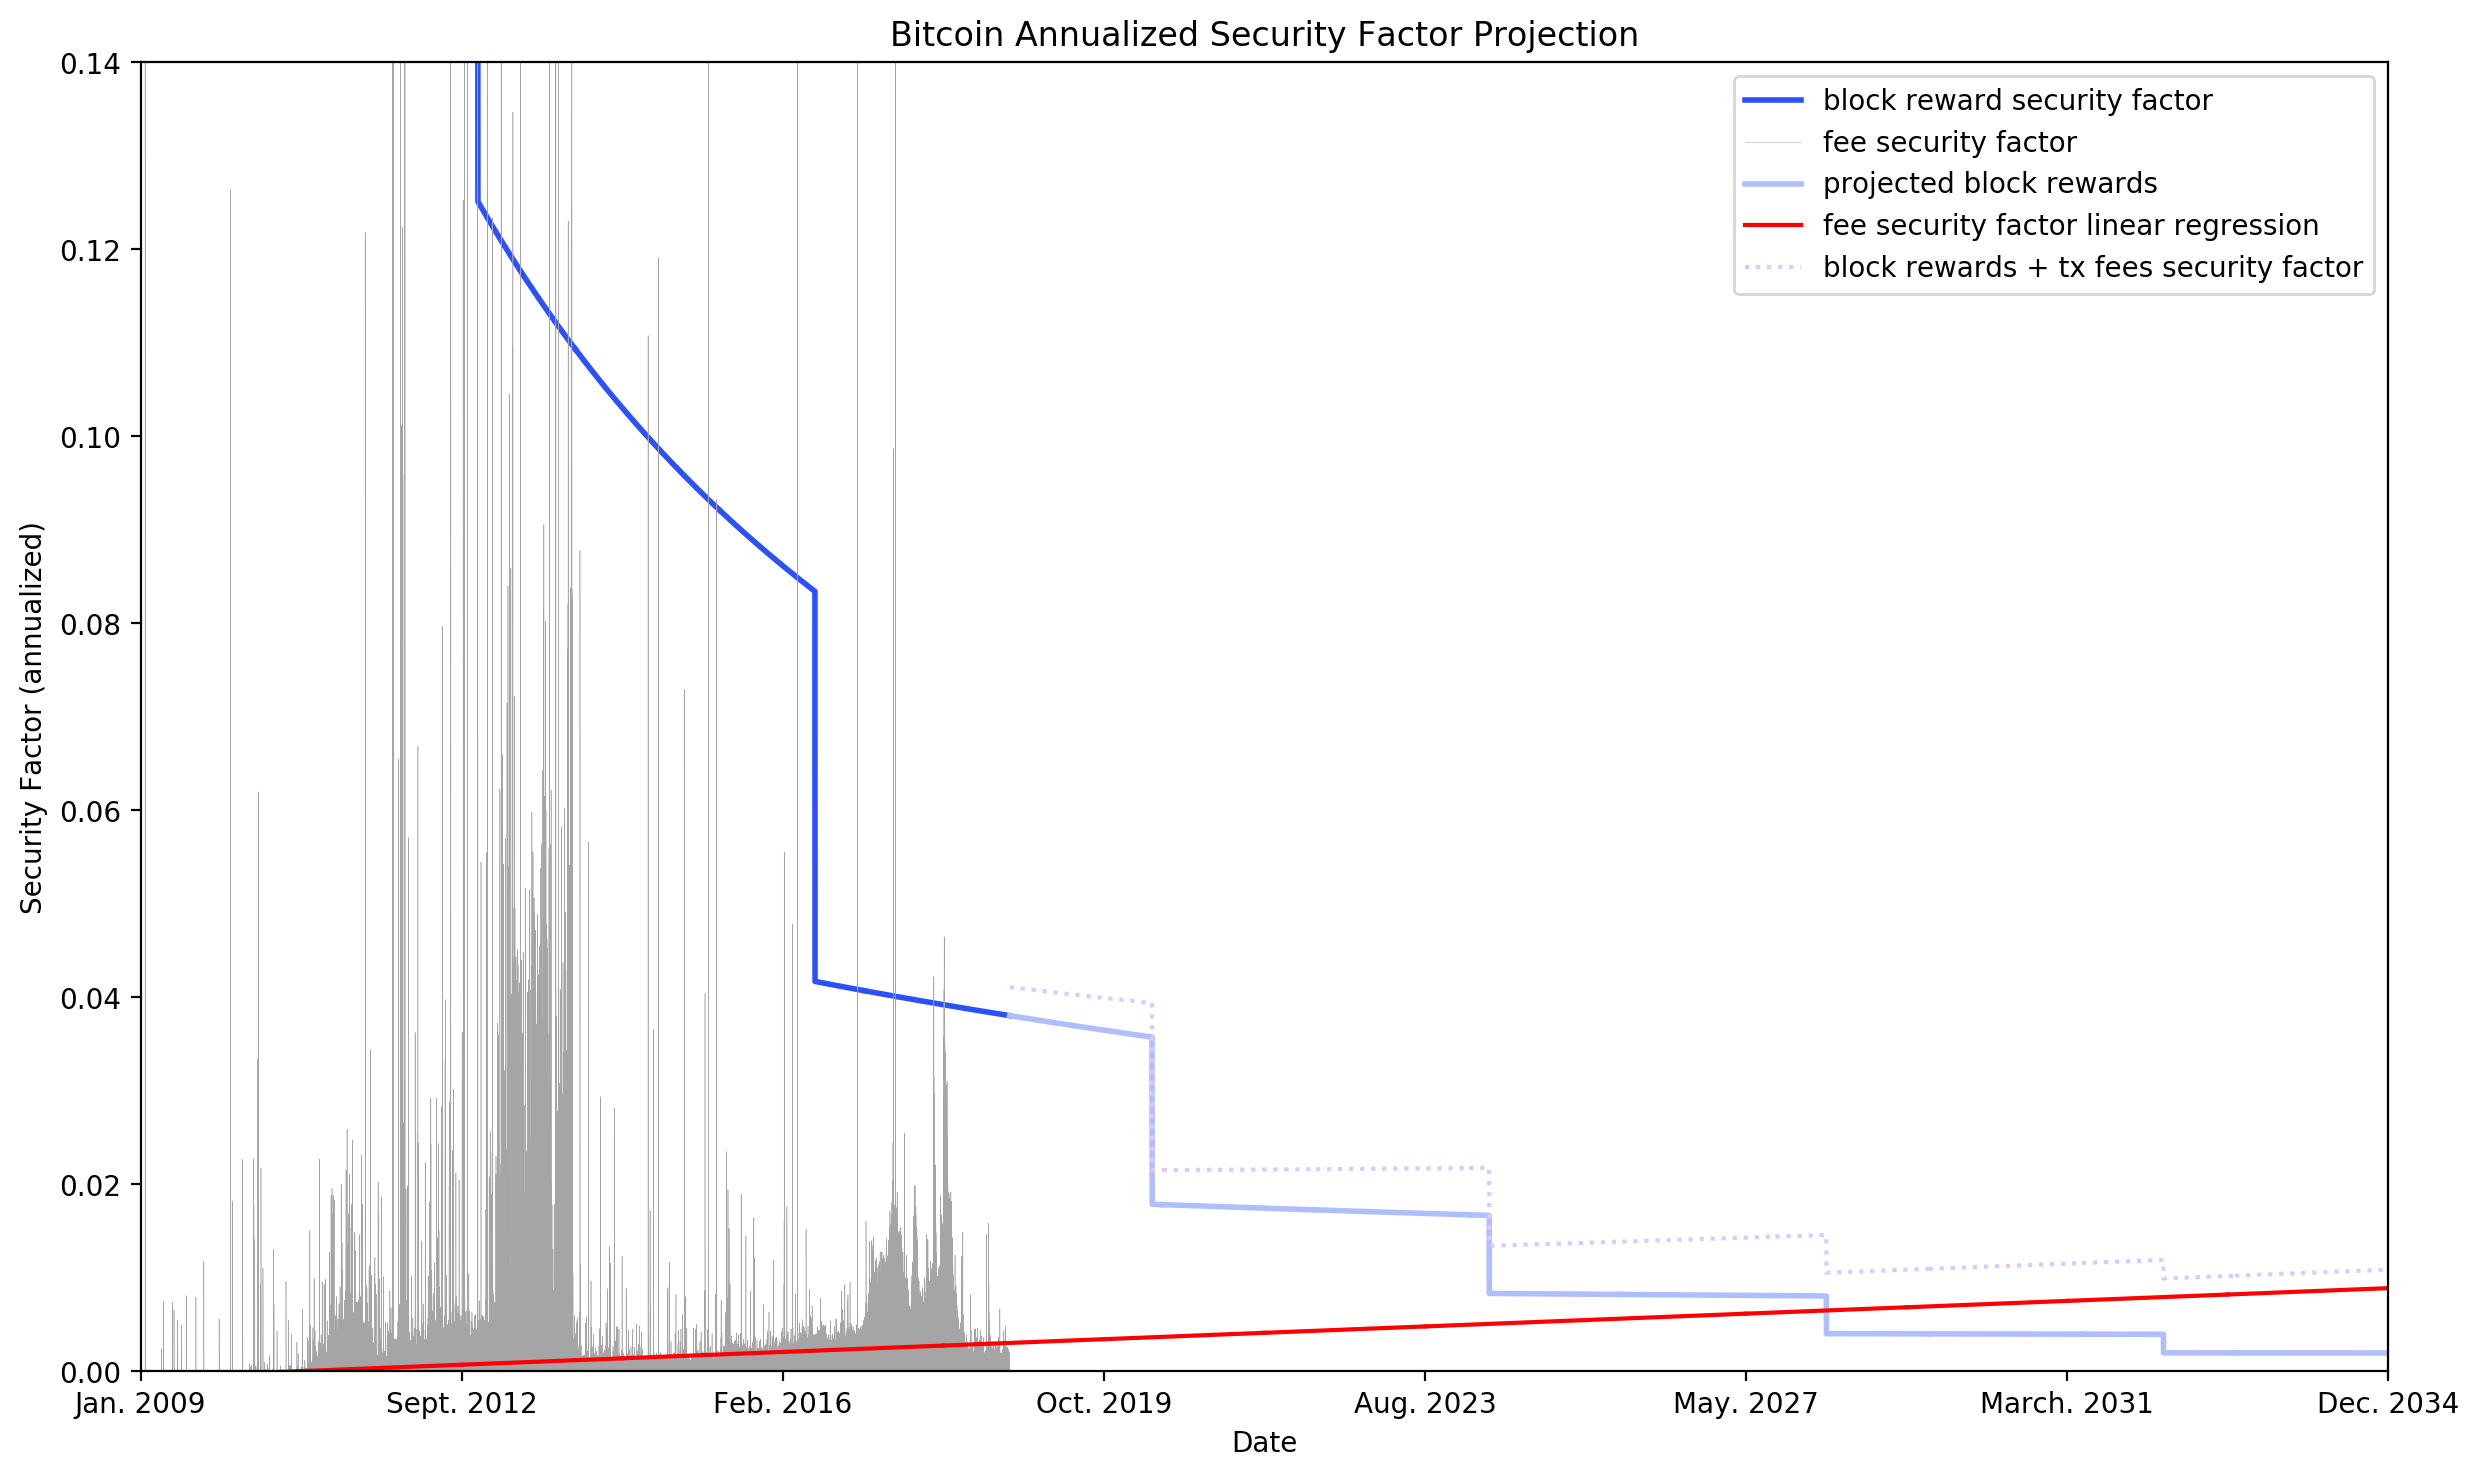
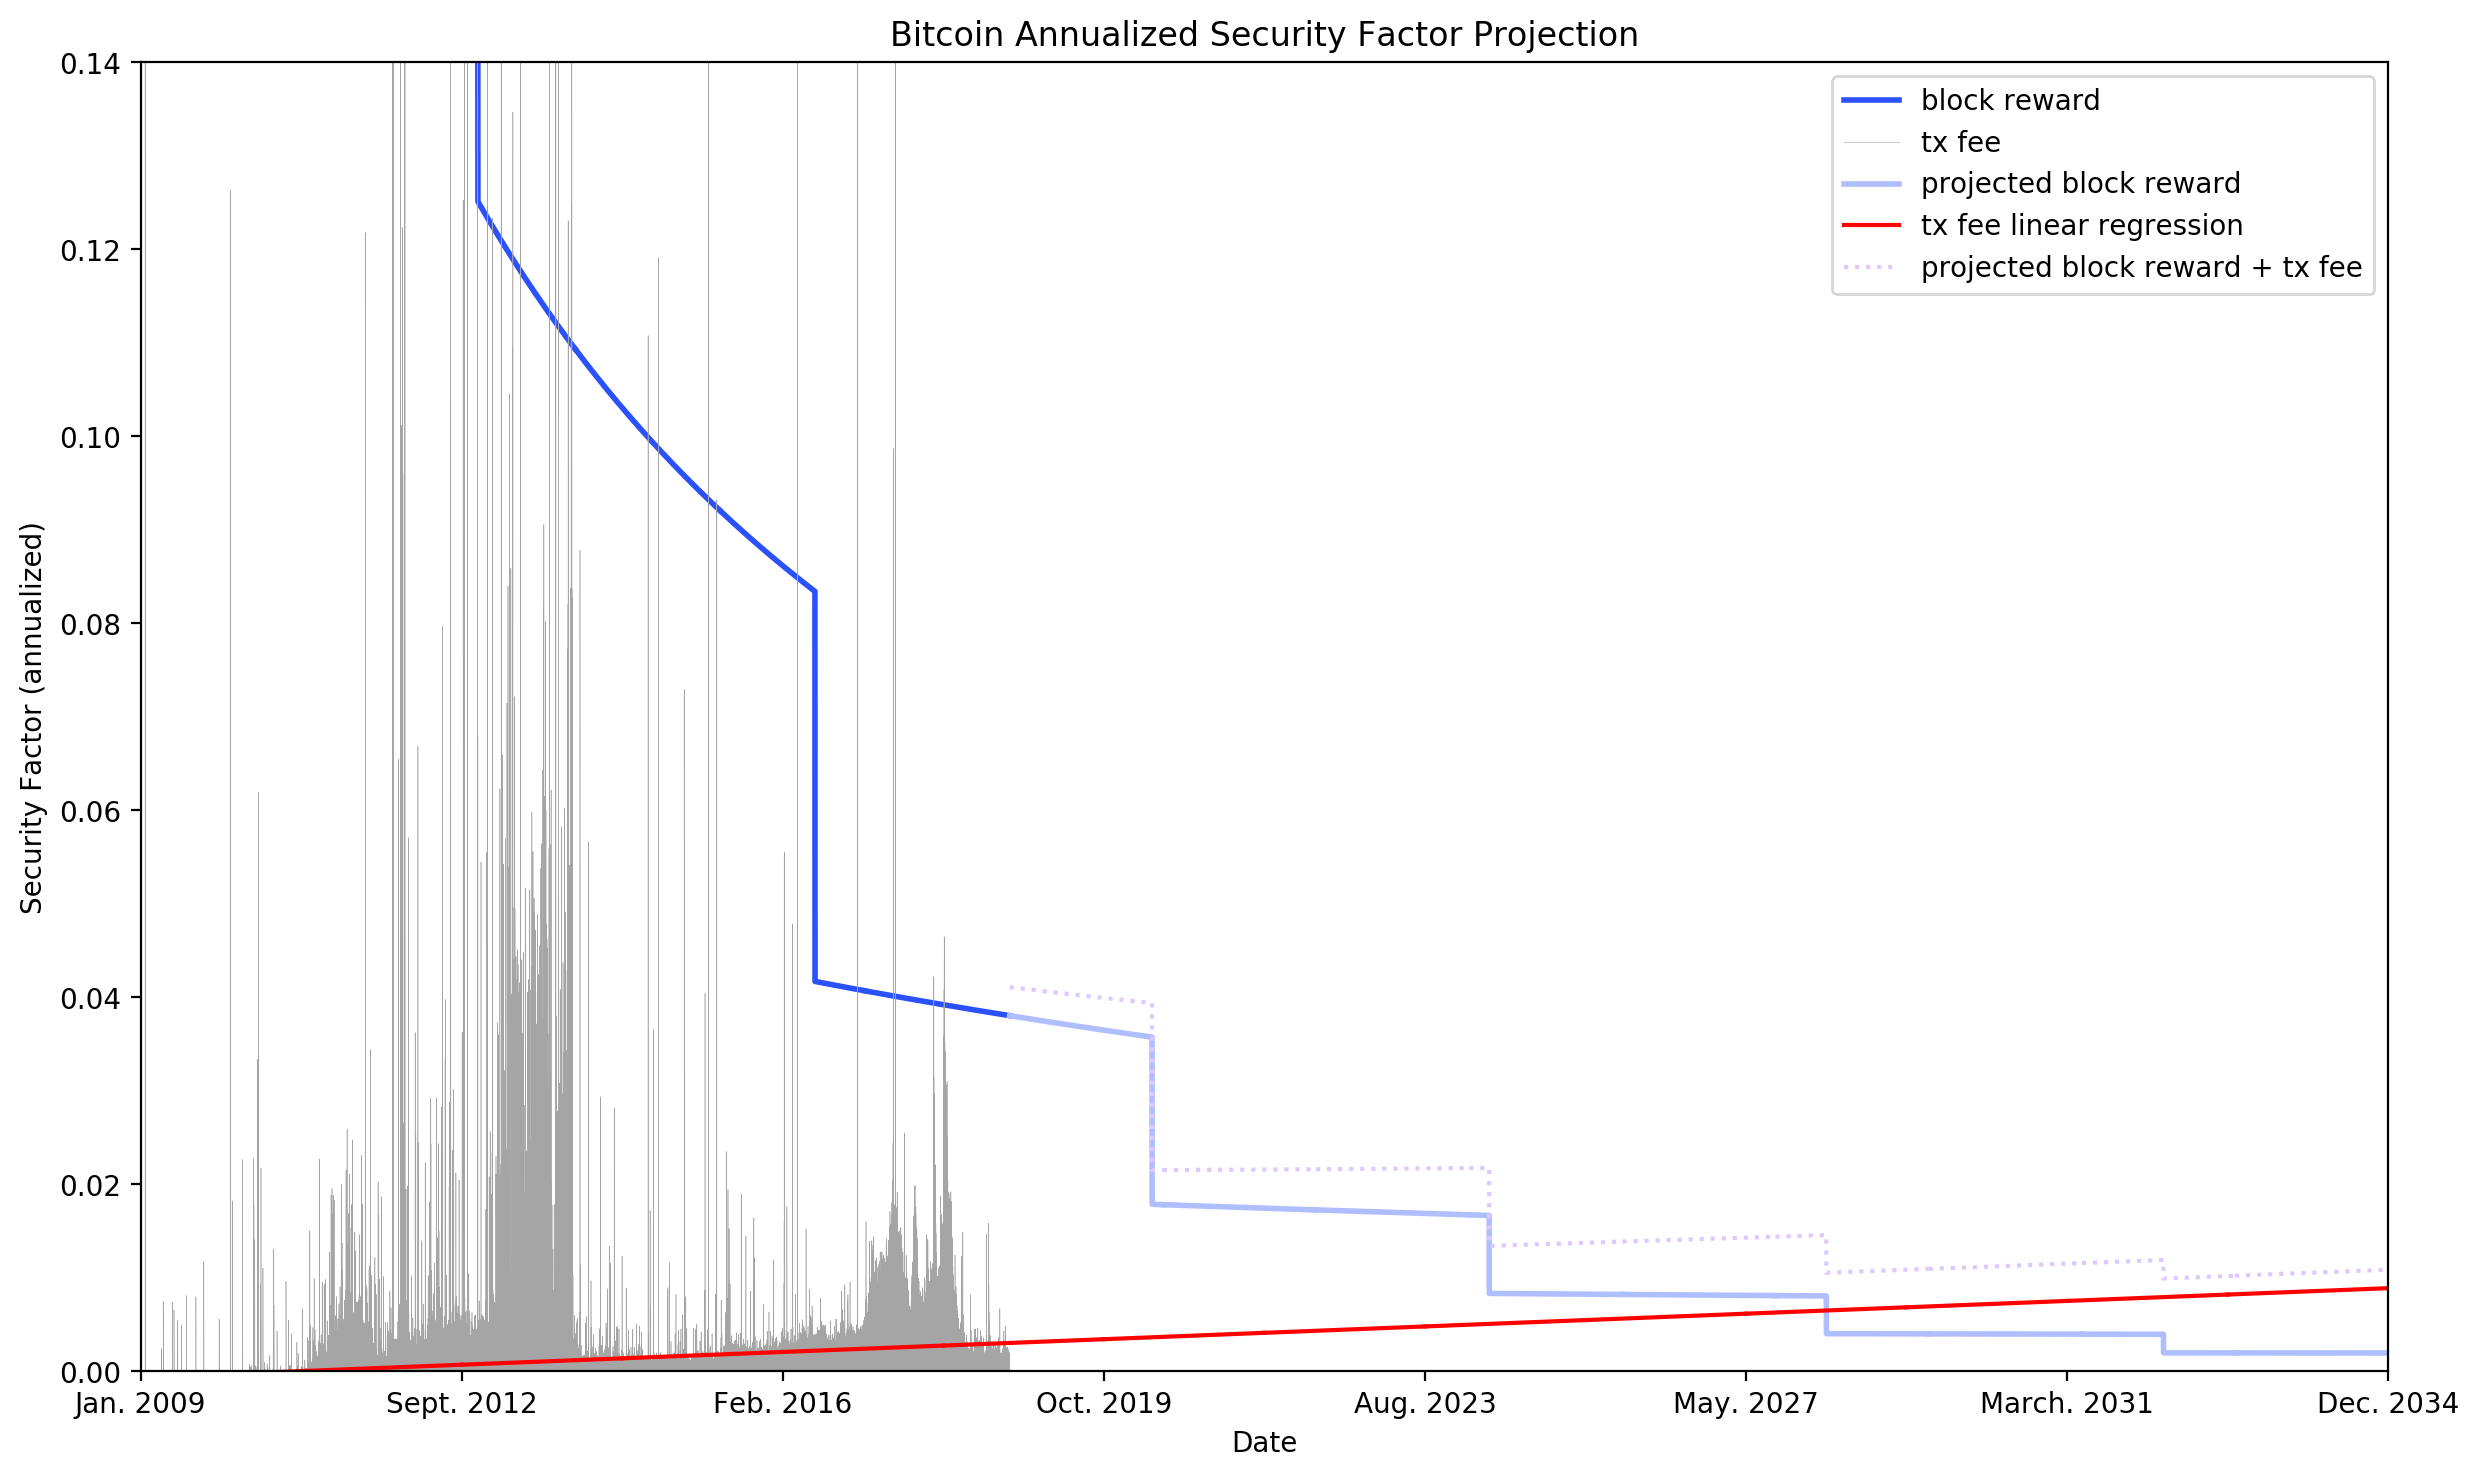
minor plot changes

Changed region(s): [[0.7144, 0.0622, 0.9629, 0.1867]]

diff --git a/security_factor.py b/security_factor.py
@@ -70,11 +70,11 @@ proj_block_nums_arr = np.array([d['block_num'] for d in projected_rewards])
 proj_block_rewards_arr = np.array([d['block_reward_sf'] for d in projected_rewards])
 
 # plot block rewards and fees
-plt.plot(block_nums_arr, block_reward_sf_arr, color='#2a51fc', linewidth=2, label='block reward security factor')
-plt.plot(block_nums_arr, fee_sf_arr, color='#a5a5a5', linewidth=0.2, label='fee security factor')
+plt.plot(block_nums_arr, block_reward_sf_arr, color='#2a51fc', linewidth=2, label='block reward')
+plt.plot(block_nums_arr, fee_sf_arr, color='#a5a5a5', linewidth=0.2, label='tx fee')
 
 # plot projected block rewards
-plt.plot(proj_block_nums_arr, proj_block_rewards_arr, color='#afbeff', linewidth=2, label='projected block rewards')
+plt.plot(proj_block_nums_arr, proj_block_rewards_arr, color='#afbeff', linewidth=2, label='projected block reward')
 
 # linear regression line
 slope, intercept, _, _, _ = stats.linregress(block_nums_arr, fee_sf_arr)
@@ -82,10 +82,10 @@ all_blocks_arr = np.append(block_nums_arr, proj_block_nums_arr)
 full_line = slope * all_blocks_arr + intercept
 
 # plot regression line
-plt.plot(all_blocks_arr, full_line, color='red', label='fee security factor linear regression')
+plt.plot(all_blocks_arr, full_line, color='red', label='tx fee linear regression')
 
 projected_line = slope * proj_block_nums_arr + intercept
-plt.plot(proj_block_nums_arr, proj_block_rewards_arr+projected_line, color='#ddc9ff', ls='dotted', label='block rewards + tx fees security factor')
+plt.plot(proj_block_nums_arr, proj_block_rewards_arr+projected_line, color='#ddc9ff', ls='dotted', label='projected block reward + tx fee')
 
 plt.rcParams['agg.path.chunksize'] = 100000
 
@@ -102,6 +102,8 @@ block_dates = {
 }
 ax = plt.gca()
 ax.set_xticklabels(list(block_dates.values()))
+# props = dict(boxstyle='round', facecolor='white', alpha=0.5)
+# plt.text(1.06e6, 0.106, 'Security factor is defined as amount paid \nin BTC divided by total supply', fontsize=9, bbox=props)
 
 plt.xlabel('Date')
 plt.ylabel('Security Factor (annualized)')

diff --git a/miner_revenue.py b/miner_revenue.py
@@ -43,7 +43,7 @@ ax.set_yticklabels(ylabels)
 
 plt.xlabel('Year')
 plt.ylabel('USD')
-plt.title('Total Daily Miner Revenue')
+plt.title('Bitcoin Total Daily Miner Revenue')
 
 fig = plt.gcf()
 fig.set_size_inches(14.5, 8.5)
